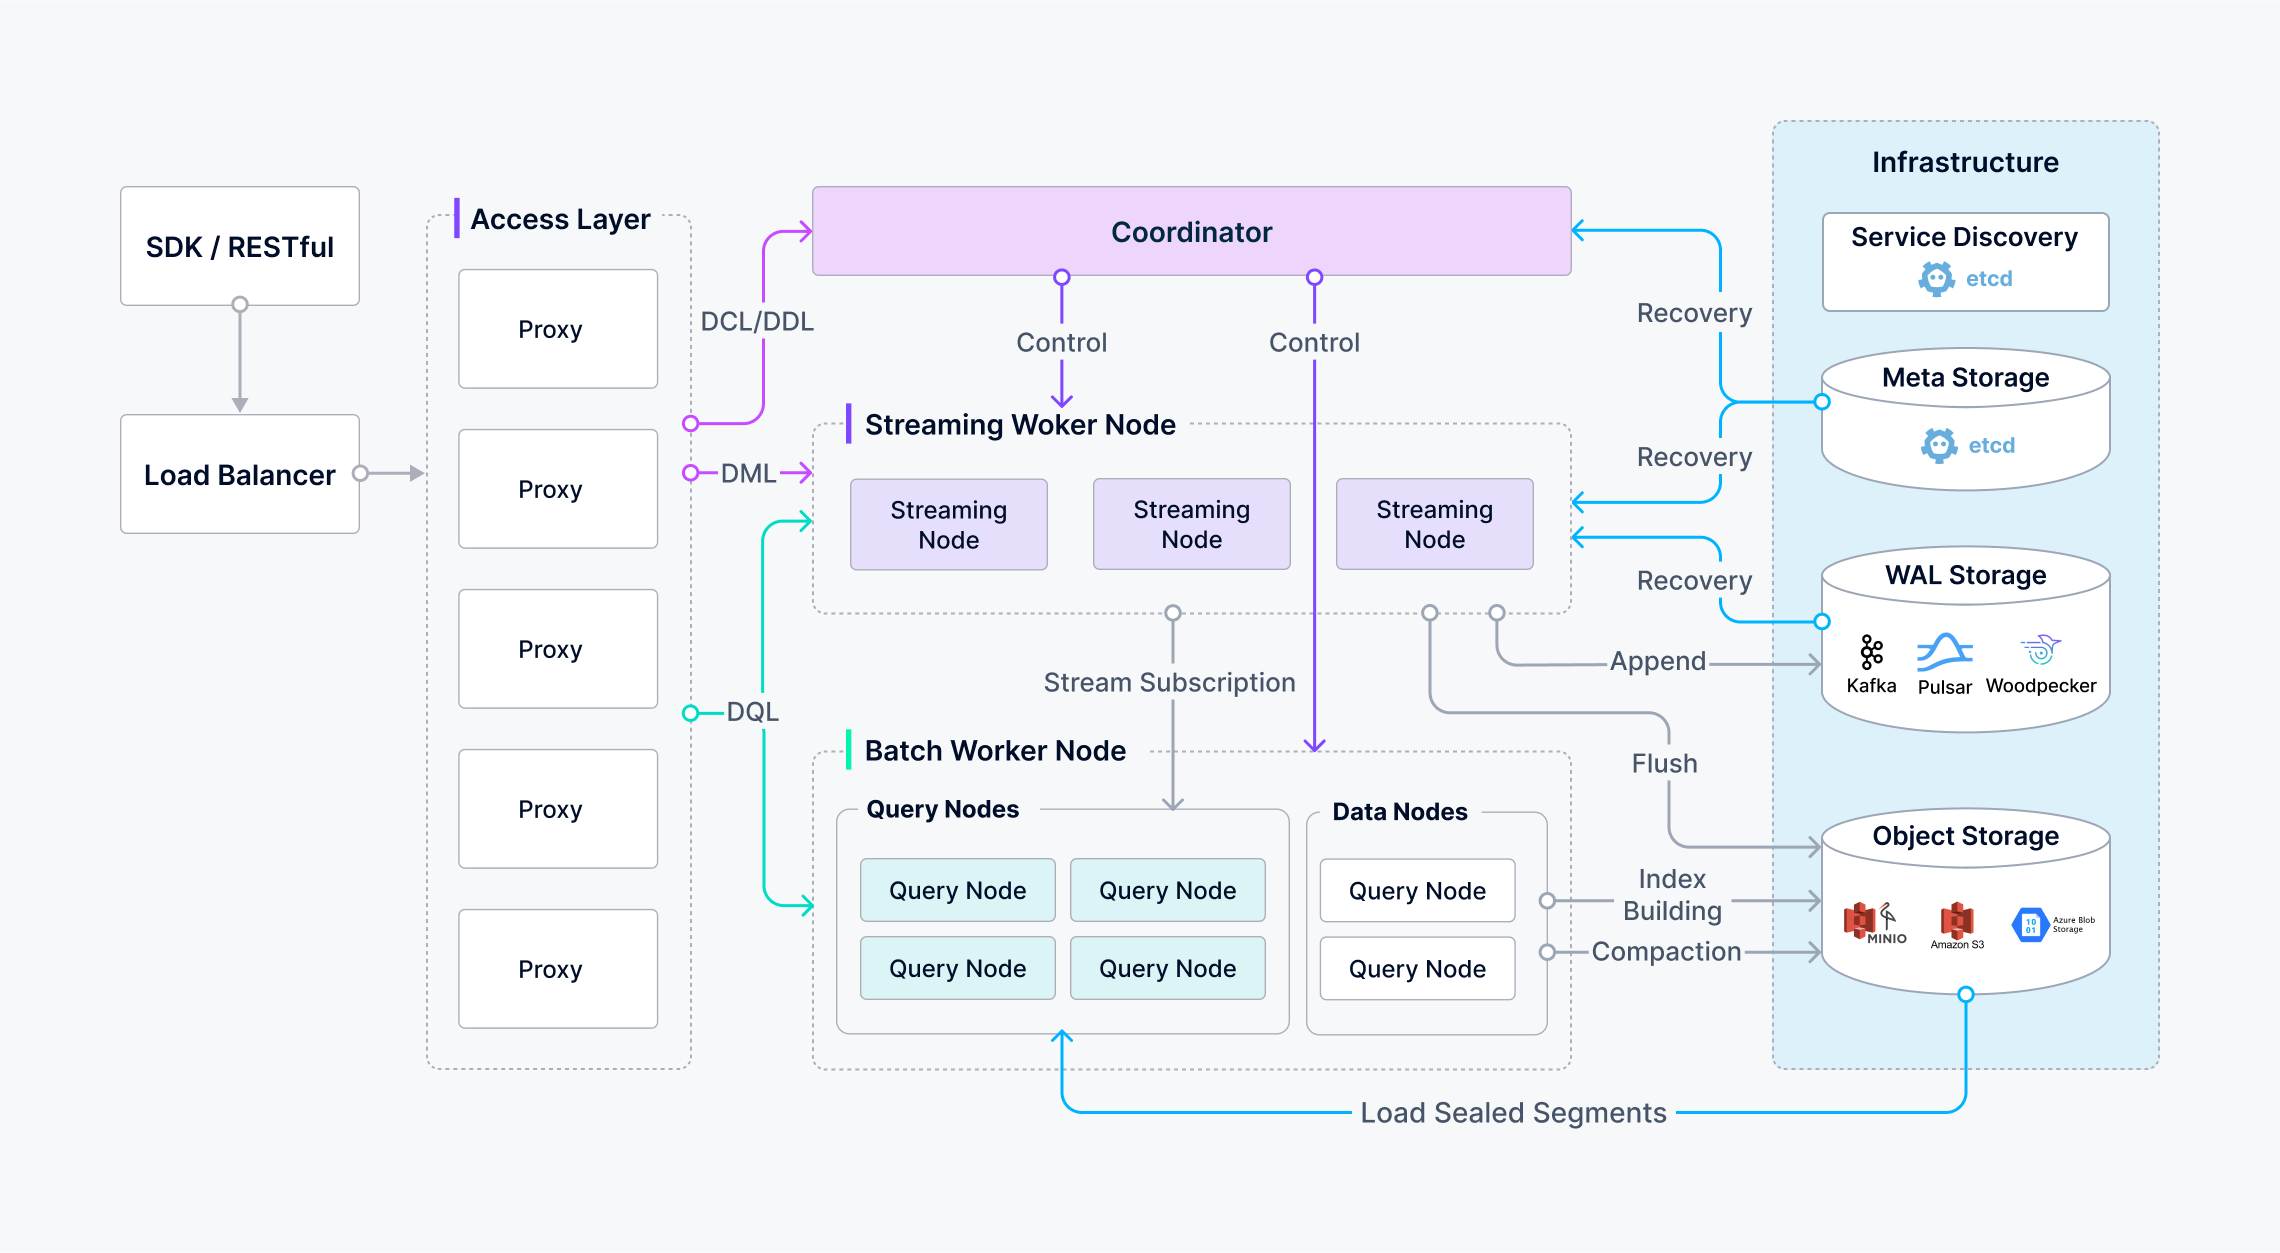
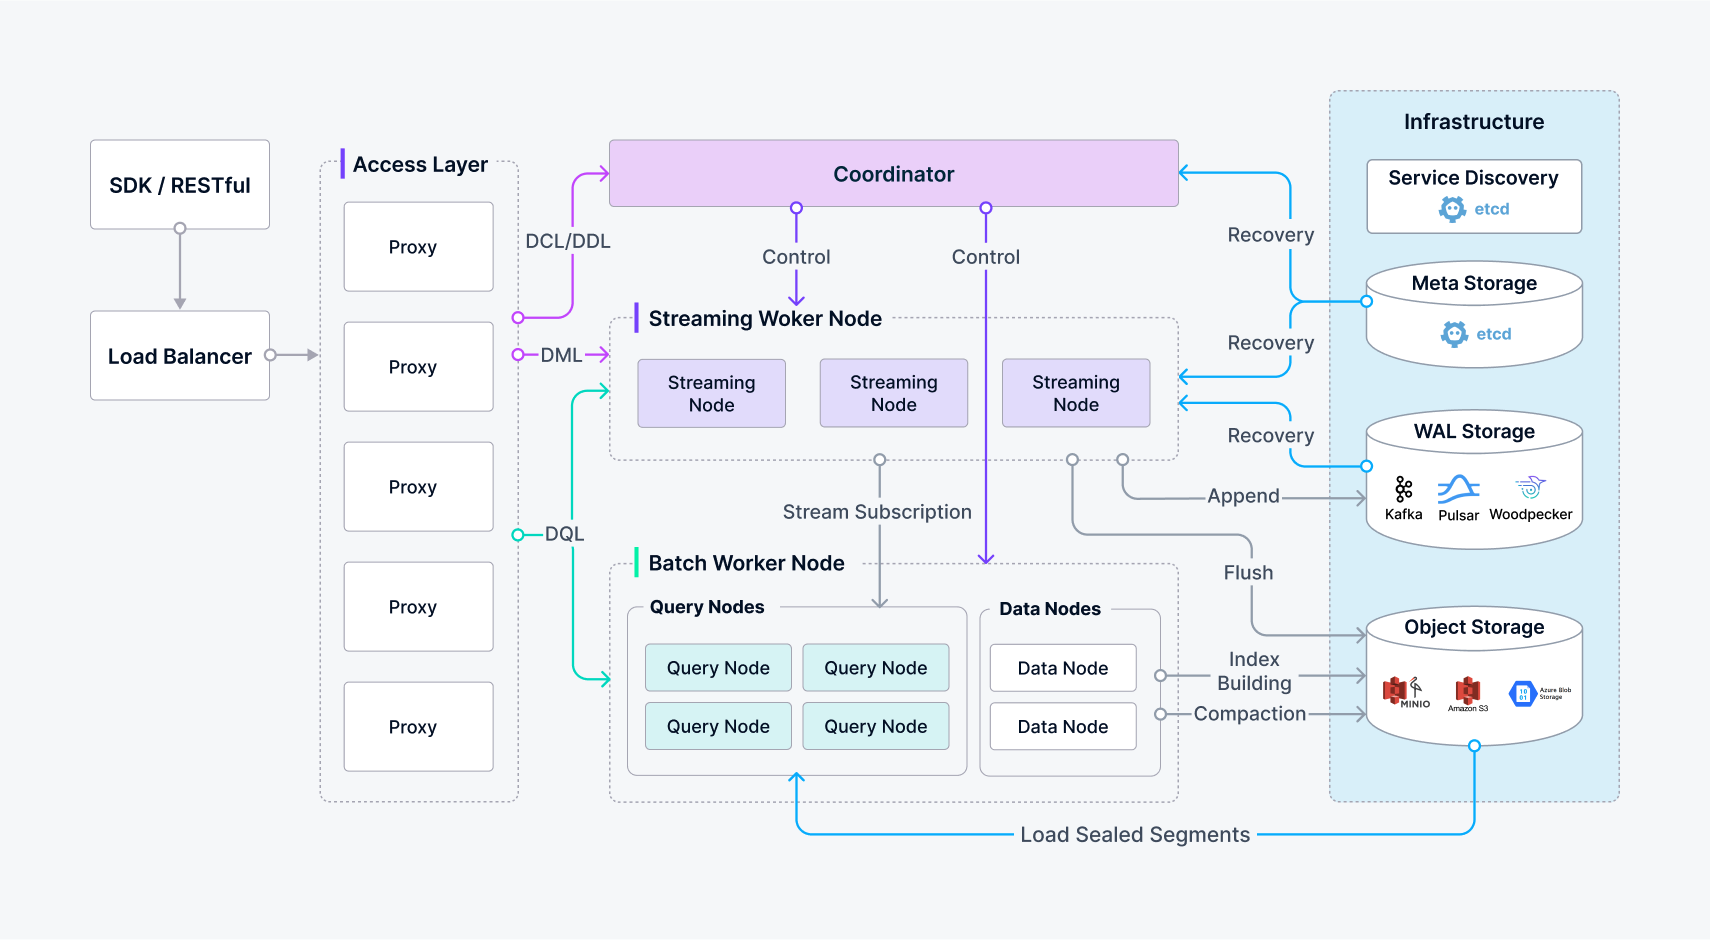
update: 2.6 arch diagrams

diff --git a/site/en/reference/architecture/architecture_overview.md b/site/en/reference/architecture/architecture_overview.md
@@ -90,10 +90,10 @@ Milvus APIs are categorized by their function and follow specific paths through 
 
 1. Client sends a search request via SDK/RESTful API
 2. Load Balancer routes request to available Proxy in Access Layer
-3. Proxy forwards request to Coordinator for routing decisions
-4. Coordinator directs request to appropriate Query Nodes in Batch Worker Node
-5. Query Nodes load sealed segments from Object Storage as needed
-6. Search results are returned through the same path back to client
+3. Proxy uses routing cache to determine target nodes; contacts Coordinator only if cache is unavailable
+4. Proxy forwards request to appropriate Streaming Nodes, which then coordinate with Query Nodes for sealed data search while executing growing data search locally
+5. Query Nodes load sealed segments from Object Storage as needed and perform segment-level search
+6. Search results undergo multi-level reduction: Query Nodes reduce results across multiple segments, Streaming Nodes reduce results from Query Nodes, and Proxy reduces results from all Streaming Nodes before returning to client
 
 ### Example Data Flow: Data Insertion
 
@@ -102,7 +102,8 @@ Milvus APIs are categorized by their function and follow specific paths through 
 3. Streaming Node logs operation to WAL Storage for durability
 4. Data is processed in real-time and made available for queries
 5. When segments reach capacity, Streaming Node triggers conversion to sealed segments
-6. Data Node handles compaction and index building, storing results in Object Storage
+6. Data Node handles compaction and builds indexes on top of the sealed segments, storing results in Object Storage
+7. Query Nodes load the newly built indexes and replace the corresponding growing data
 
 ## What's Next
 

diff --git a/site/en/reference/architecture/woodpecker_architecture.md b/site/en/reference/architecture/woodpecker_architecture.md
@@ -53,7 +53,7 @@ A write is considered successful once it's replicated to at least two of the thr
 
 The result is a streamlined, robust WAL layer ideal for mission-critical production environments where consistency, availability, and fast recovery are essential.
 
-![woodpecker memory mode deployment](../../../../assets/woodpecker_memorybuffer_mode_deployment.png "woodpecker memory mode deployment.")
+![woodpecker quorum mode deployment](../../../../assets/woodpecker_quorumbuffer_mode_deployment.png "woodpecker memory mode deployment.")
 
 ## Performance benchmarks
 
